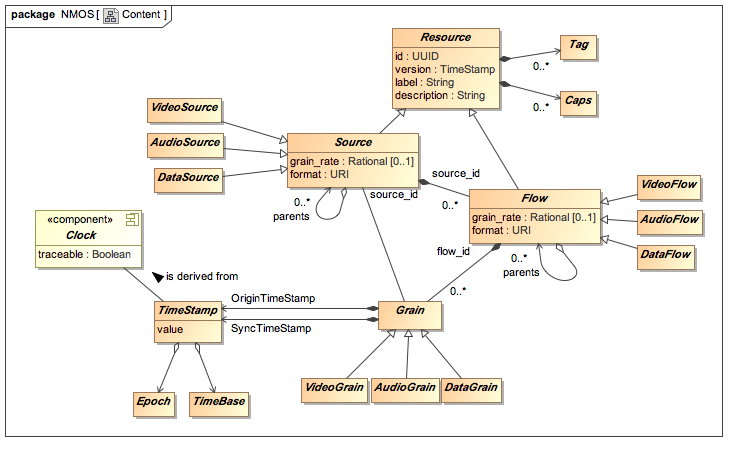
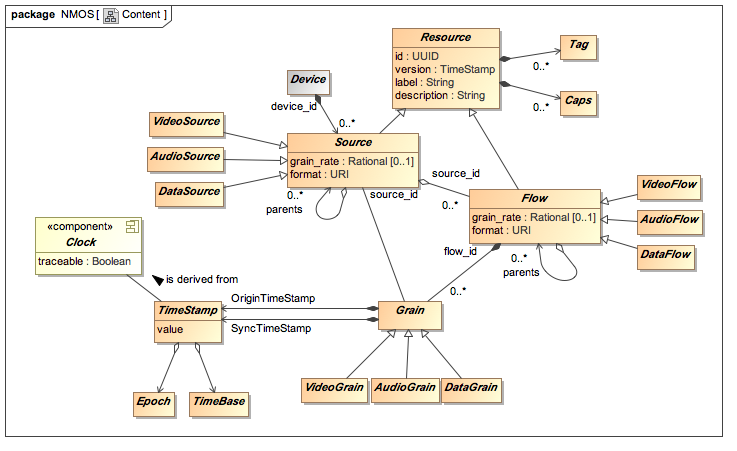
Various corrections and clarifications

diff --git a/specifications/ContentModel.md b/specifications/ContentModel.md
@@ -13,8 +13,8 @@ This model is based on the data model documented in JT-NM RA 1.0, with a number 
 - Currently, "grouping" elements such as SourceGroup and Rendition are not included.
 - The Content element, and related elements, are only informative in the JT-NM RA 1.0 data model and are not included.
 - NMOS specifications are constrained to use a nanosecond TimeBase and PTP/SMPTE Epoch.
-- NMOS specifications constrain a video Grains to correspond to a frame.
-- A Grain has exactly two TimeStamps (Origin and Sync).
+- NMOS specifications constrain a video Grain to correspond to a frame.
+- NMOS specifications constrain a Grain used for interchange /to have exactly two TimeStamps (Origin and Sync).
 - Various attributes are defined that are not in the scope of the JT-NM RA.
 - Some attribute values with URI type are constrained to have a "urn:x-nmos:" prefix.
 
@@ -44,7 +44,9 @@ A Grain represents an element of video, audio or data that is associated with a 
 
   In NMOS specifications a VideoGrain shall have a Grain Payload corresponding to a **single, complete, frame of video**.
 
-  *Note: This means that both fields of an interlaced frame have the same timestamp. See also the interlace_mode parameter of VideoFlow.*
+  *Note: This applies to Grains with all types of video payloads, including those using GOP-based compression.*
+
+  *Note: This means that both fields of an interlaced frame have the same OriginTimeStamp and SyncTimeStamp/. See also the interlace_mode parameter of VideoFlow.*
 
 - An **AudioGrain** has a Grain Payload containing audio sample data from one or more audio channels.
 
@@ -57,10 +59,8 @@ Grains shall have the following attributes:
 
 - **SourceID**: Unique identifier of the Source that produced the Grain.
 - **FlowID**: Unique identifier of the Flow that contains the Grain.
-- **OriginTimeStamp**: A TimeStamp representing when the Grain was captured. When capturing from a live source this should match the SyncTimeStamp. When replaying stored essence this should be populated from the Origin Timestamp of the stored Grain.
-- **SyncTimeStamp**: a TimeStamp representing when timestamp for the
-Grain essence data. Two coincident audio and video Grains would share the same
-Sync Timestamp, which remains associated with them as they pass through
+- **OriginTimeStamp**: A TimeStamp representing the capture time of the Grain Payload. For Grain Payloads with multiple samples, this shall be the sample time of the first sample. When capturing from a live source this should match the SyncTimeStamp. When replaying stored essence this should be populated from the Origin Timestamp of the stored Grain.
+- **SyncTimeStamp**: a TimeStamp representing the capture or playback time of the Grain Payload. For Grain Payloads with multiple samples, this shall be the sample time of the first sample. Two coincident audio and video Grains would share the same Sync Timestamp, which remains associated with them as they pass through
 processing devices.
 
 Grains may have the following optional attributes:
@@ -79,12 +79,12 @@ Resources shall have the following attributes:
 
 - **id**: a Univerally Unique IDentifier (UUID) as per RFC 4122.
 - **version**: a TimeStamp indicating when an attribute of the Resource last changed.
-- **label**: a short string providing a human-readable identifying for the Resource. Does not have to be unique.
+- **label**: a short string providing a human-readable identification for the Resource. Does not have to be unique.
 - **description**: a longer string providing a description of the Resource.
 
 Resources may have the following attributes:
 
-- **tags**: Text-based tags providing information about the resource.
+- **tags**: Text-based tags providing information about the resource, to enable categorization and filtering based on user-supplied values.
 - **caps**: Capabilities of the Resource. Usage of these is not yet defined.
 
 ## Flow
@@ -115,12 +115,17 @@ A Source represents the primary origin of a Flow, or a set of Flows that contain
 Sources may be one of following types:
 
 - **VideoSource**, origin of VideoFlow(s)
-- **AudioSource**, origin of VideoFlow(s)
+- **AudioSource**, origin of AudeoFlow(s)
 - **DataSource**, origin of DataFlow(s)
 
 Sources shall have the following attributes in addition to those specified by the Resource base class:
 
+- **device_id**, a UUID representing the Device that this Source is associated with.
+
+  *Note: a Device is a logical grouping of functionality, as per the JT-NM RA data model. It is not part of the logical content model, but is used in NMOS specifications and will be formally defined in another NMOS logical model.*
+
 - **parents**, UUIDs referencing all of the Sources whose Flows were brought together (see Flow's parents attribute).
+
 - **format**: a URI starting with "urn:x-nmos:format:", followed by "video", "audio", "data", according to to the type of Source.
 
 Sources may have the following optional attributes:
